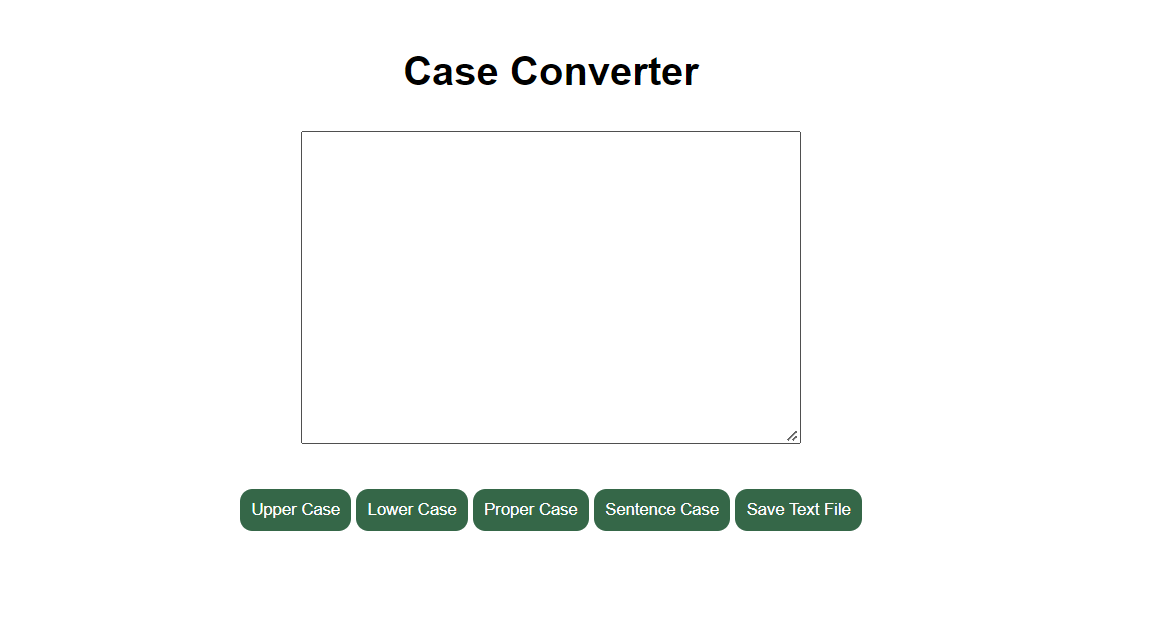
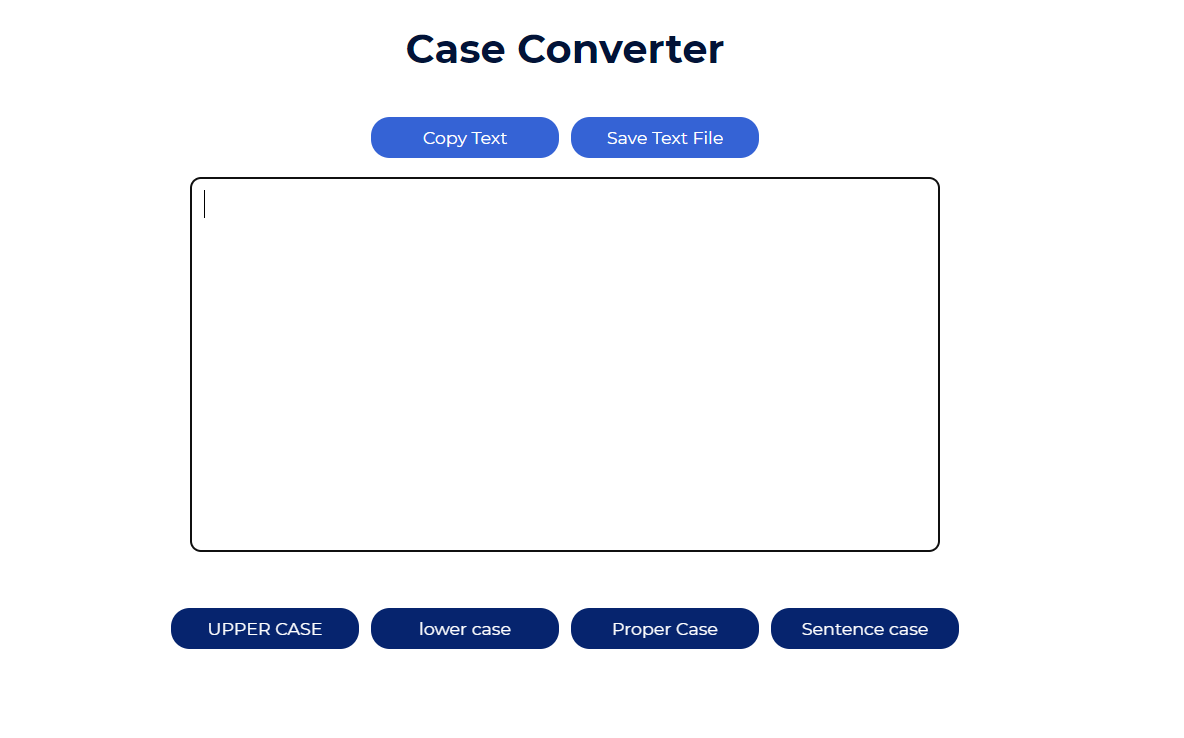
case converter: added copy button and redesign project

Changed region(s): [[0.1218, 0.7296, 0.8225, 0.8816], [0.1828, 0.0304, 0.792, 0.2432], [0.1523, 0.2432, 0.1828, 0.304]]

diff --git a/Case Conventer/style.css b/Case Conventer/style.css
@@ -2,18 +2,36 @@
     margin: 0;
     padding: 0;
     box-sizing: border-box;
-    font-family: Arial, sans-serif;
+    font-family: Montserrat, sans-serif  ;
 }
 .page-wrapper {
     display: flex;
     flex-direction: column;
-    margin: 70px 0;
+    margin: 120px 0;
     align-items: center;
 }
+
+.page-title {
+    color: #021338;
+}
+
+.textarea-with-copy-and-saving-buttons {
+    width: 600px;
+    margin:  30px 0 40px ;
+    display: flex;
+    flex-direction: row;
+    flex-wrap: wrap;
+    justify-content: center;
+}
+
 textarea {
-    width: 400px;
-    height: 250px;
-    margin: 30px 0;
+    width: 600px;
+    height: 300px;
+    padding: 10px;
+    resize: none;
+    font-size: 18px;
+    border-radius: 8px;
+    margin-top: 10px;
 }
 
 .action-buttons-container {
@@ -21,11 +39,18 @@ textarea {
     flex-direction: row;
 }
 
+#copy-text-action-button,
+#save-text-file-action-button {
+    background-color: rgb(53, 99, 213);
+}
+
 button {
-    background-color: #356748;
+    background-color: #06246e;
     color: white;
     border: none;
-    margin: 2px;
-    padding: 9px;
-    border-radius: 10px;
+    margin: 5px;
+    padding: 8px 15px;
+    border-radius: 15px;
+    font-size: 14px;
+    width: 150px;
 }

diff --git a/Case Conventer/index.html b/Case Conventer/index.html
@@ -7,16 +7,20 @@
 </head>
 <body>
 <div class="page-wrapper">
-    <div class="page-title"><h1>Case Converter</h1></div>
-    <label>
-        <textarea id="source-textarea"></textarea>
-    </label>
-    <div class="action-buttons-container">
-        <button id="upper-case-action-button">Upper Case</button>
-        <button id="lower-case-action-button">Lower Case</button>
-        <button id="proper-case-action-button">Proper Case</button>
-        <button id="sentence-case-action-button">Sentence Case</button>
+    <div class="page-title">
+        <h1>Case Converter</h1>
+    </div>
+    <div class="textarea-with-copy-and-saving-buttons">
+        <button id="copy-text-action-button">Copy Text</button>
         <button id="save-text-file-action-button">Save Text File</button>
+        <textarea id="source-textarea"></textarea>
+    </div>
+    <div class="action-buttons-container">
+        <button id="upper-case-action-button">UPPER CASE</button>
+        <button id="lower-case-action-button">lower case</button>
+        <button id="proper-case-action-button">Proper Case</button>
+        <button id="sentence-case-action-button">Sentence case</button>
+
     </div>
 </div>
 <script src="scripts.js"></script>

diff --git a/Case Conventer/scripts.js b/Case Conventer/scripts.js
@@ -41,3 +41,7 @@ document.getElementById("save-text-file-action-button").addEventListener("click"
     document.body.removeChild(element);
 });
 
+document.getElementById('copy-text-action-button').addEventListener('click', () => {
+    document.getElementById('source-textarea').select();
+    document.execCommand(('copy'));
+})
